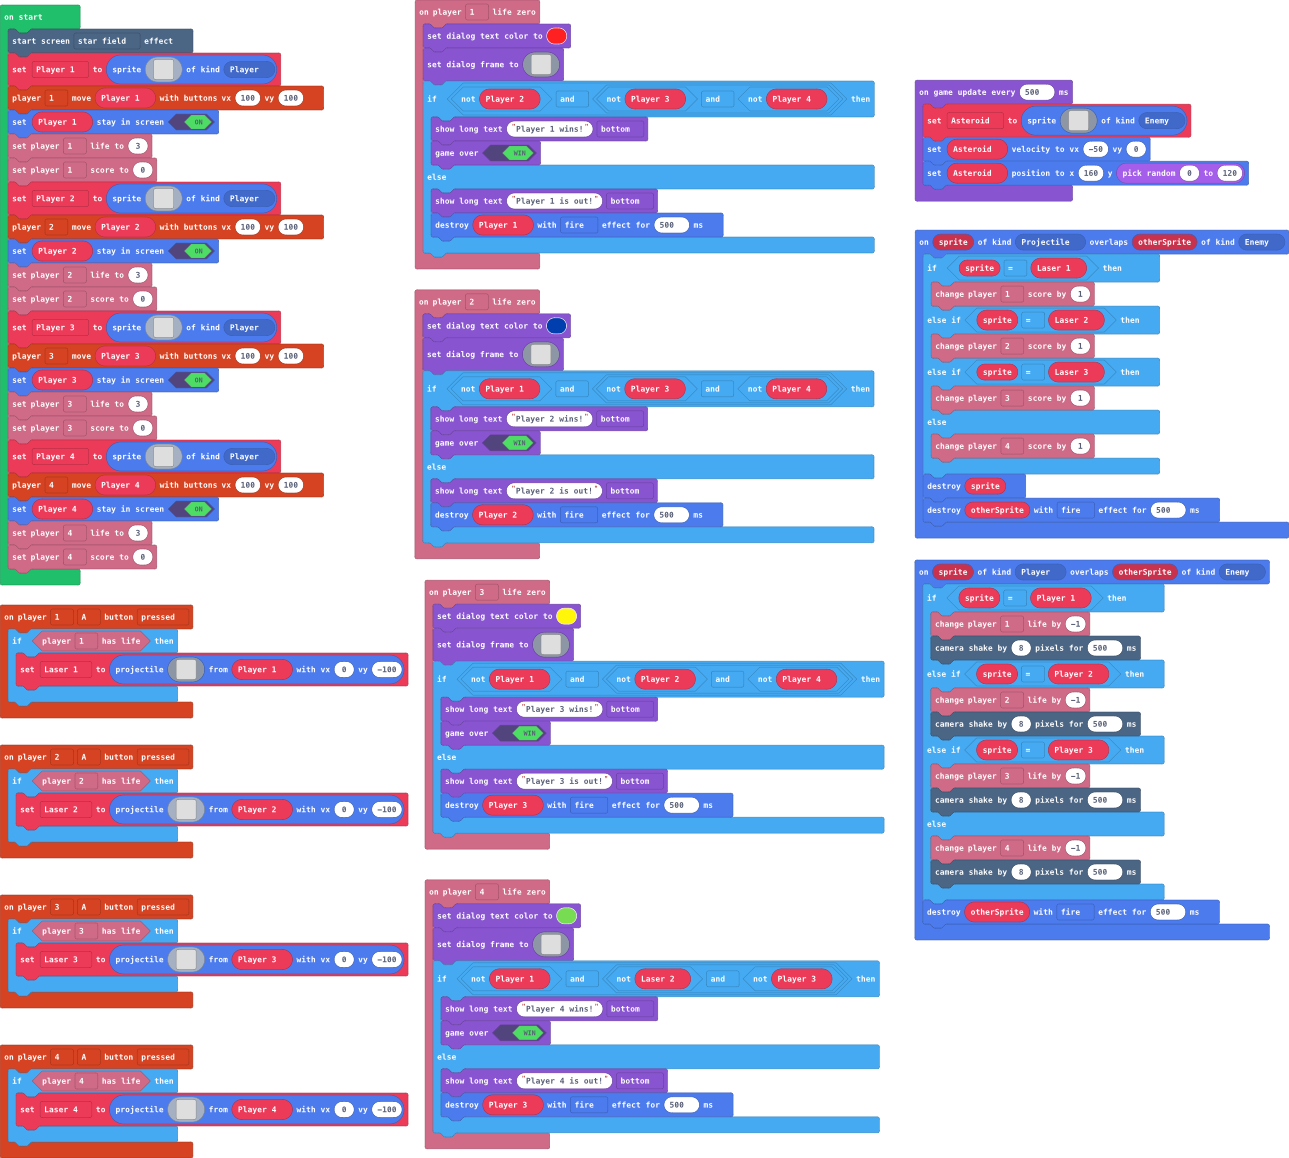
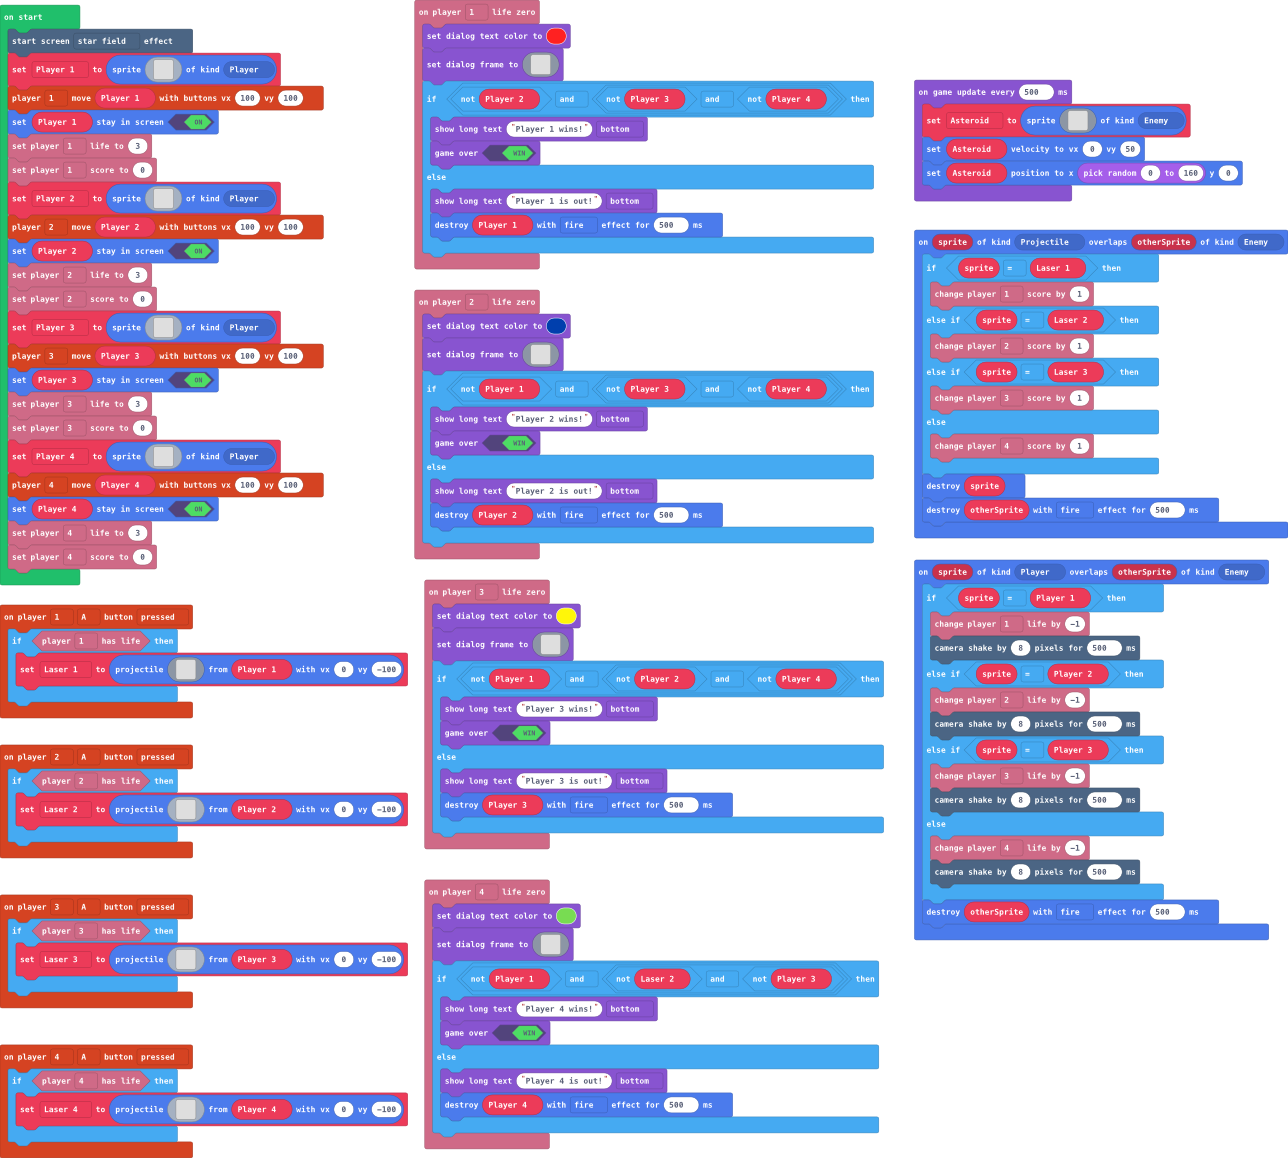
Update main.blocks, main.ts

diff --git a/main.ts b/main.ts
@@ -35,7 +35,7 @@ info.player4.onLifeZero(function () {
         game.gameOver(true)
     } else {
         game.showLongText("Player 4 is out!", DialogLayout.Bottom)
-        sprites.destroy(Player_3, effects.fire, 500)
+        sprites.destroy(Player_4, effects.fire, 500)
     }
 })
 info.player3.onLifeZero(function () {
